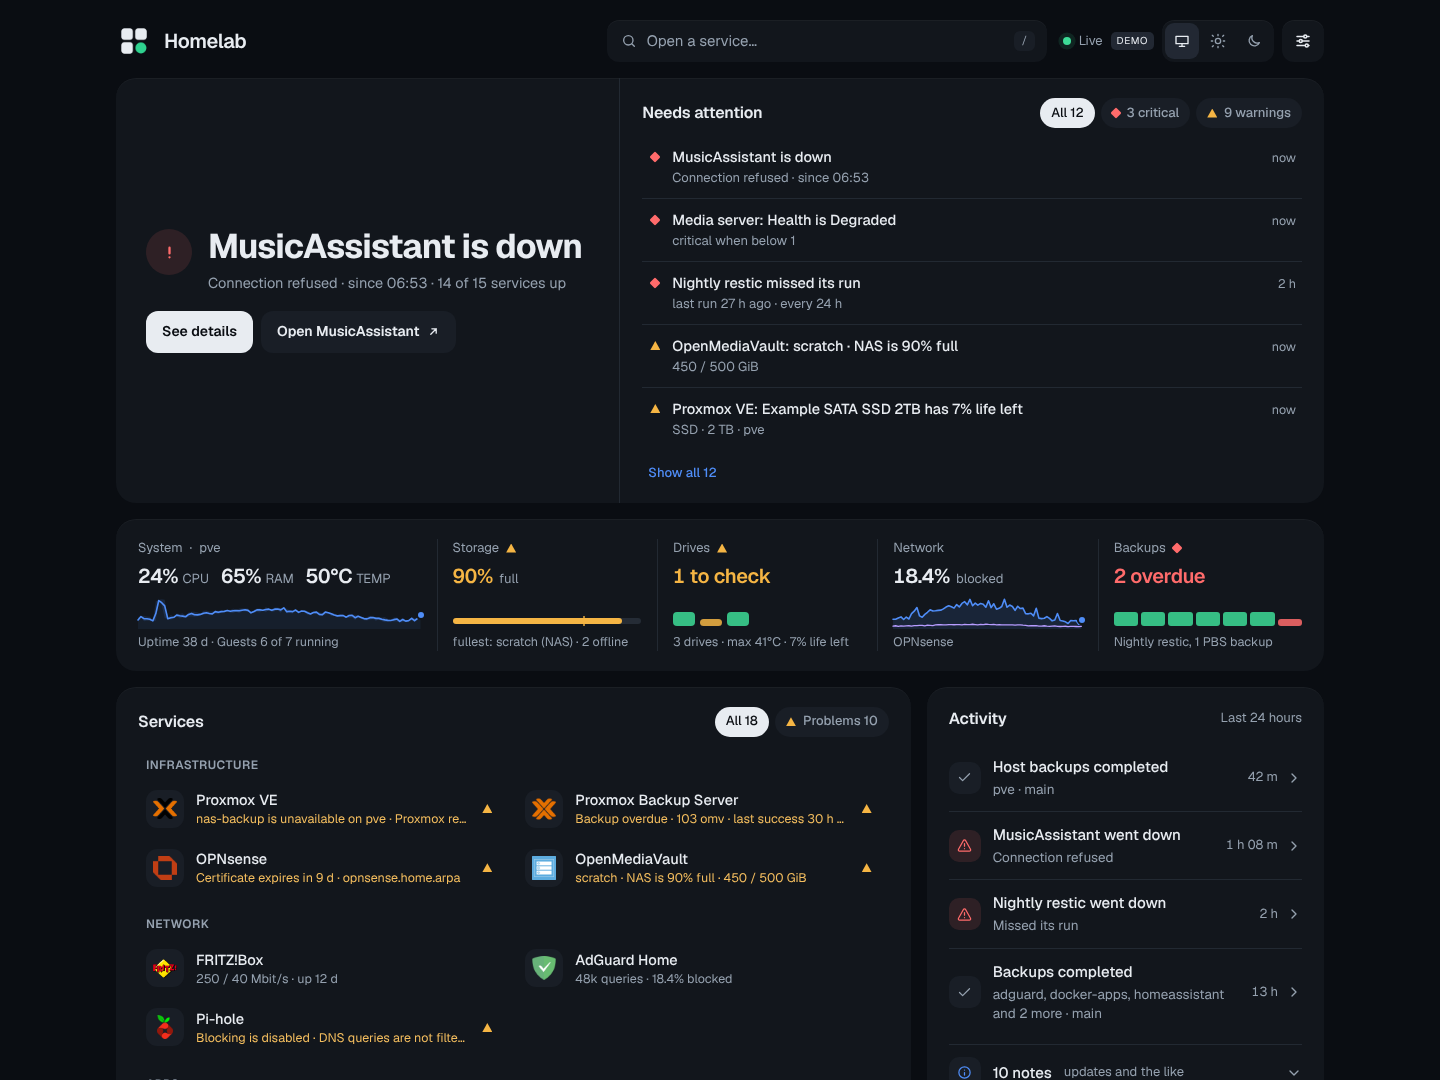
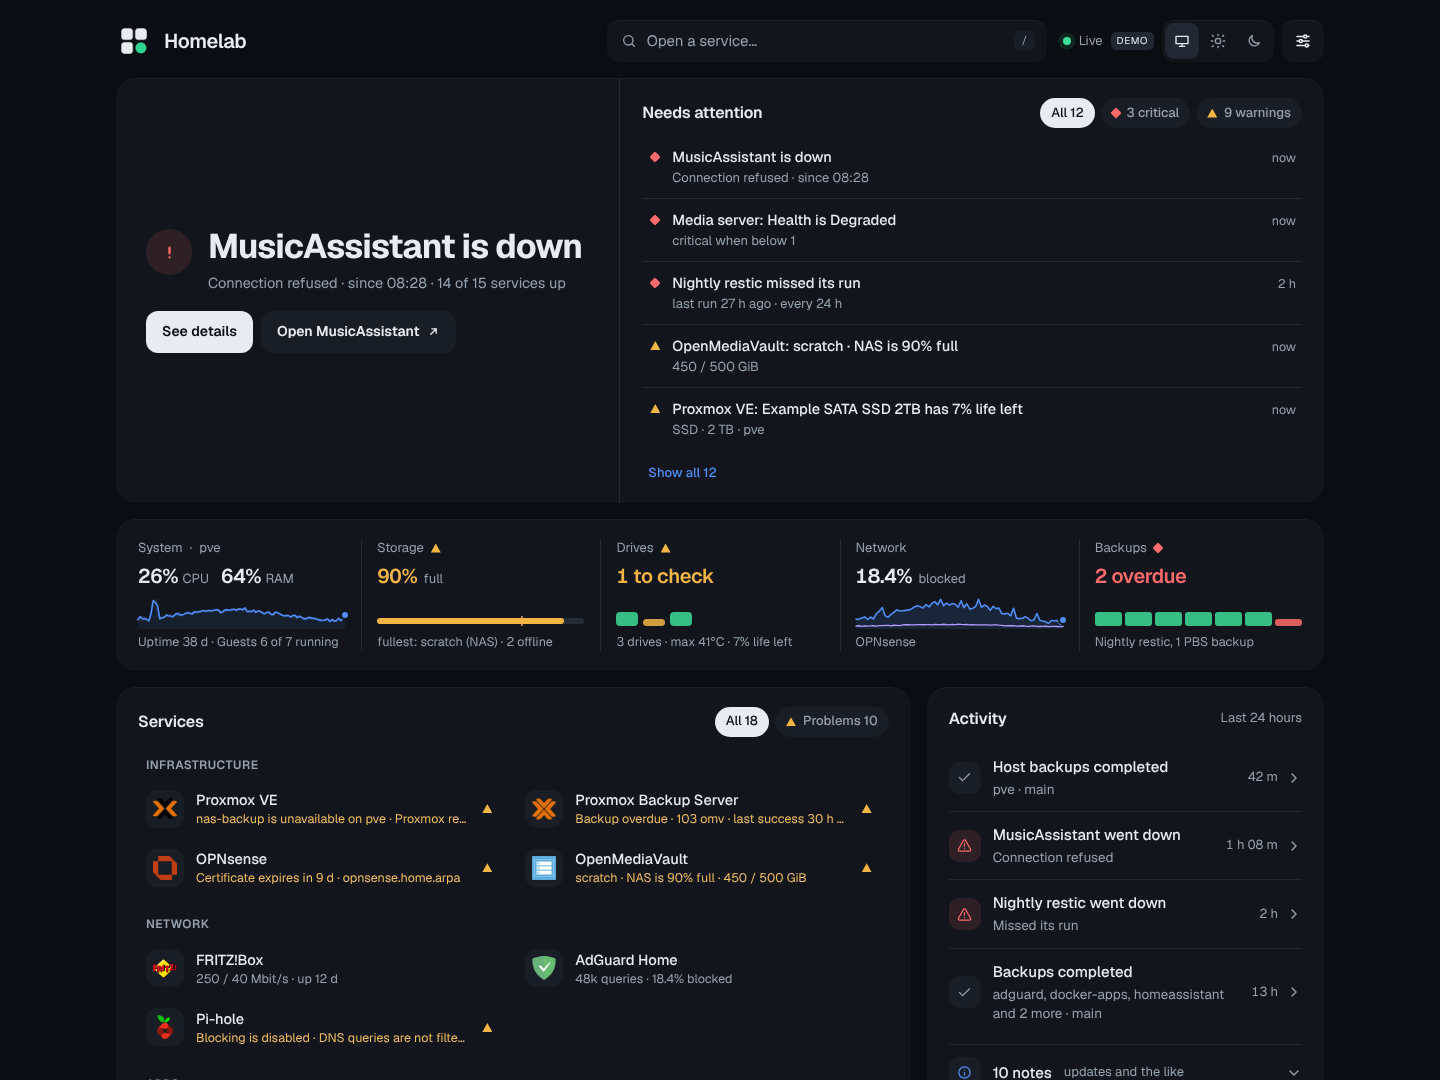
Strip: equal cells, temperature only for a problem, wider phone pictures
- System shows CPU and RAM; its temperature joins them only at warn or crit
  (infrastructure.ts, tested). The sheet's Thermals chart has it always.
- All five cells are equally wide again (no min-content width for System).
- Phones: every row's picture takes 45% of the row (about 145 px).
- A figure's unit keeps 6 px from it without a negative margin, so a wrapped
  unit (Network's Mbit/s) no longer sticks out to the left.
- Screenshots retaken; docs updated.

Claude-Session: https://claude.ai/code/session_01BawsohcbaCwGbQoPVLYXZX

Changed region(s): [[0.0938, 0.4889, 0.875, 0.6111]]

diff --git a/src/routes/+page.svelte b/src/routes/+page.svelte
@@ -743,15 +743,15 @@
   /* a rule between cells, left out next to a hovered one */
   .cell + .cell::before { content: ''; position: absolute; left: 0; top: 14px; bottom: 14px; border-left: 1px solid var(--line); }
   .cell:hover::before, .cell:hover + .cell::before { display: none; }
-  /* a cell of several figures (System: CPU, RAM, temperature) gets half again the room, and never less than its
-     figures on one line: they don't wrap, the other cells give way */
-  .cell:has(.ist + .ist + .ist) { flex-grow: 1.5; min-width: min-content; }
-  .cell:has(.ist + .ist + .ist) .fig { flex-wrap: nowrap; }
+  /* every cell as wide as the others: System shows CPU and RAM, and its temperature only for a problem, when the
+     figures may take a second line */
   .clab { display: flex; align-items: center; gap: 7px; min-width: 0; font-size: 13px; color: var(--muted); }
   .kw::before { content: '·'; margin-right: 7px; }
   .fig { display: flex; flex-wrap: wrap; align-items: baseline; gap: 0 12px; min-width: 0; }
+  /* a figure and its unit sit closer than two figures, without a negative margin that would indent a wrapped unit */
+  .fig:not(:has(.ist)) { column-gap: 6px; }
   .fig .v, .fig .isv { font-size: 20px; font-weight: 600; letter-spacing: -0.015em; white-space: nowrap; font-variant-numeric: tabular-nums; }
-  .fig .u { margin-left: -6px; font-size: 13px; color: var(--muted); white-space: nowrap; }
+  .fig .u { font-size: 13px; color: var(--muted); white-space: nowrap; }
   .ist { display: inline-flex; align-items: baseline; gap: 4px; white-space: nowrap; }
   .isk { font-size: 13px; color: var(--muted); }
   .isv.hl, .cell.alert .fig .v { color: var(--lv); }
@@ -906,8 +906,7 @@
     .most { padding: 0 22px 20px; }
     .lower { grid-template-columns: minmax(0, 1fr); }
     .side { position: static; }
-    /* the strip stays one row: System a little wider, its figures still on one line */
-    .cell:has(.ist + .ist + .ist) { flex-grow: 1.15; }
+    /* the strip stays one row, the cells as wide as each other */
     .cell { padding: 12px 12px; }
     .fig { gap: 0 8px; }
     .fig .v, .fig .isv { font-size: 18px; }
@@ -938,10 +937,10 @@
     .apps { display: grid; grid-template-columns: repeat(4, minmax(0, 1fr)); gap: 6px; }
     .app { width: auto; }
     /* the strip as a compact list: a row per area, its label over its figure, the picture on the right, as wide in every
-       row: 112 px, narrower on small phones (56 px, 40 if it must) so System's figures stay on one line. The line of context shows only for an area with
+       row: 45% of it (about 145 px on a phone). The line of context shows only for an area with
        a problem (the sheet has the rest) */
     .infra { display: flex; flex-direction: column; padding: 4px 6px; border-radius: 22px; }
-    .cell { flex: none; display: grid; grid-template-columns: minmax(min-content, 1fr) minmax(40px, clamp(56px, 100vw - 300px, 112px)); grid-template-areas: 'lab viz' 'fig viz' 's s'; align-items: center; gap: 1px 14px; padding: 10px 10px; }
+    .cell { flex: none; display: grid; grid-template-columns: minmax(0, 1fr) 45%; grid-template-areas: 'lab viz' 'fig viz' 's s'; align-items: center; gap: 1px 14px; padding: 10px 10px; }
     .cell + .cell::before { display: block; left: 10px; right: 10px; top: 0; bottom: auto; border-left: 0; border-top: 1px solid var(--line); }
     .cell:hover::before, .cell:hover + .cell::before { display: block; }
     .cell:active { background: var(--surface-2); }
@@ -949,7 +948,6 @@
     .fig { grid-area: fig; gap: 0 9px; }
     .fig .v, .fig .isv { font-size: 17px; }
     .isk, .fig .u { font-size: 12px; }
-    .fig .u { margin-left: -5px; }
     .viz { grid-area: viz; height: 30px; align-items: center; }
     .viz :global(.spark) { height: 30px !important; }
     .meter { margin: 0; }

diff --git a/src/lib/server/snapshot.test.ts b/src/lib/server/snapshot.test.ts
@@ -338,7 +338,7 @@ test('Activity: outages under minOutageMinutes are left out, and each row says w
   assert.ok(every.some((f) => f.title === 'Blip went down'), '0 shows every outage');
 });
 
-test('System and Network panels: charts with each bucket\'s low and high, slow readings as meters, Disk I/O', () => {
+test('System and Network panels: charts with each bucket\'s low and high, slow readings as meters, Disk I/O; the strip\'s temperature only for a problem', () => {
   const now = day(31);
   // CPU: 10% averages with one 60% spike inside a bucket; LAN: one 300 Mbit/s burst two hours ago
   for (let i = 1; i <= 40; i++) {
@@ -362,6 +362,10 @@ test('System and Network panels: charts with each bucket\'s low and high, slow r
   assert.equal(Math.max(...cpu.series.filter((v) => v != null)), 35, 'the average flattens the spike');
   assert.deepEqual([Math.max(...cpu.hi.filter((v) => v != null)), Math.min(...cpu.lo.filter((v) => v != null))], [60, 10], 'the band keeps it');
   assert.deepEqual([snap.host?.io?.read, snap.host?.io?.write, snap.host?.io?.seriesRead?.some((v) => v === 2)], [2.5, 0.5, true]);
+  // the strip's System cell: CPU and RAM; the temperature only when it needs a look
+  assert.deepEqual(panel(snap, 'system')?.stats?.map((x) => x.k), ['CPU', 'RAM']);
+  const hot = createSnapshot()(snapshotInput({ services: [pve], temps: { cpu: 80, nvme: [], drives: [] } }), now);
+  assert.deepEqual(panel(hot, 'system')?.stats?.map((x) => [x.k, x.v, x.level]), [['CPU', '12%', 'ok'], ['RAM', '50%', 'ok'], ['TEMP', '80°C', 'warn']]);
   // the LAN's burst survives in the band of its download
   assert.equal(Math.max(...(snap.network?.lan?.downHi ?? []).filter((v) => v != null)), 300);
 });

diff --git a/src/lib/server/infrastructure.ts b/src/lib/server/infrastructure.ts
@@ -18,7 +18,8 @@ function system(host: NonNullable<Parts['host']>): InfraPanel {
     stats: [
       cpu && { k: 'CPU', v: `${cpu.val}%`, level: cpu.level },
       mem && { k: 'RAM', v: mem.pct != null ? `${Math.round(mem.pct)}%` : '—', level: mem.level },
-      temp && { k: 'TEMP', v: `${temp.val}°C`, level: temp.level }
+      // the temperature only when it needs a look: the cells stay equal, and the sheet charts it
+      temp && (temp.level === 'warn' || temp.level === 'crit') && { k: 'TEMP', v: `${temp.val}°C`, level: temp.level }
     ].filter((x) => !!x),
     level: worst(host.gauges.map((x) => x.level))
   };

diff --git a/CLAUDE.md b/CLAUDE.md
@@ -27,7 +27,7 @@ One Node process, no worker or external DB. `src/hooks.server.ts` starts a singl
 - **Fixtures** (`demo/<type>.ts`) are `"METHOD /path"` → `({ now, scenario, params, headers, body })` tables served by `fixtureTransport`. Demo mode and the tests use the same transport seam, so integrations run unchanged in both. `demoSources` only fakes what has no integration: probes, certificates, local host, temperatures, 24 h of seeded history.
 - **Checks** (`check.ts`): `record` turns a reading into check state, a history row and events; `status` gives the tile's level, line and alert. `siteMonitor` is probed over HTTP (<500 = up) or, for `tcp://host:port`, by connecting. **Heartbeats** (`heartbeat.ts`, `/api/heartbeat/<id>[/fail]`) are push checks: token compared on SHA-256 digests, 404 for an unknown id or a wrong token, 1 call/s per id; results live in `kv`.
 - **Snapshot** (`snapshot.ts`) holds the status rules: down after 2 failed probes, "slow" when the 1 h p95 exceeds `latencyWarnMs` with ≥10 samples, the certificate and temperature thresholds, the verdict, the fleet strip. `build` runs one function per panel. Those that raise alerts (`configAlerts`, `serviceTiles`, `hostPanel`, `storage.ts`'s alerts, `drivesPanel`) run before `round.close`, the rest (`applyWorst`, `networkPanel`, `fleetStrip`, `verdictOf`, `mostUsedRow`) after. The infrastructure strip's cells and the sheet's tabs come worded and judged from `infrastructure.ts` (`snap.infrastructure`), the Storage cell, the storage rows and the Disk gauge's level from `storage.ts` (one alert per disk, `storage.test.ts`), the Backups cell and the Backups tab (`snap.backups`, with `days`: a level per day of the last week: red where a backup job was found late, green where a job was on time or a backup completed; the services' other events never count) from `backups.ts`, which adds up what `pbs.ts` and `check.ts` judged (tested on its own in `backups.test.ts`); the page only renders them. History queries go through `perMinute` (read once a minute per builder); live state is never cached. Tested through `build` in `snapshot.test.ts`, with inputs from `test-helpers.ts#snapshotInput`.
-- **Main page** (`+page.svelte`): the top card (`verdict`: one sentence with See details and the top item's Open action; beside it every crit/warn item once, as a list with a filter by level; when calm, Most used instead), the infrastructure strip (a cell each for System, Storage, Drives, Network and Backups: figure, a small picture drawn from what the sheet charts, context; a problem colours the figure and adds its shape; on phones a compact list, a row per area with the picture on the right and the context only for a problem; System's figures stay on one line, the other cells and the phone's picture give way) and the services as **tiles**: every service and job with its icon, name and status line. A tap on a tile opens the service; the button at its end or a long press (`longpress` action, touch only) opens its sheet; one without `href` opens its sheet on a tap; a Problems filter narrows the list. Activity lists what happened and folds the info items (notes) into one row; Links sit under it. Details live in sheets (`Sheet.svelte`, a modal `<dialog>`; on phones no X but a handle that closes; one fluid drag: the top edge follows the finger, and on release it carries on with the finger's speed and stays where it lands, closed below a third of its opening height or on a quick flick): a service (with its 7-day events from `/api/events?sid=`), infrastructure (`Infrastructure.svelte`, five tabs; the Backups tab's body is a snippet from the page, since its rows open service sheets: a summary with the week's strip, a line and a cycle bar per backup row, Recent folded. Charts (`Chart.svelte`, and `Bars.svelte` for DNS queries per hour) have a labelled y-axis of three nice ticks (percentages and rates from 0, temperatures fitted with the limit in view), the time every 6 h, a band from each bucket's low to its high (`db.ts#series` returns `lo`/`hi`) and a legend in their card (`Gauge.svelte`, `Reading.svelte`) that follows the scrub; gauges with `view: 'meter'` (memory, disk fill) are `MeterRow.svelte` rows) and activity (`feed`). Each Activity row carries `open`, the sheet it opens (`snapshot.ts#feedTarget`). Both pages share `AppHeader.svelte` (brand, search, live state, theme, Setup) and, on phones, `TabBar.svelte`. Below 760 px the dashboard shows one view at a time (Home, Services, Alerts): each section names its views in `data-v` and CSS hides the rest, so the markup stays one. The view is history state (`page.state.view`): leaving Home pushes an entry, switching between the others replaces it, sheets push on top. Search opens the palette, full screen on phones; Setup's tab bar leads here by hash (`/#search`, `/#view-services`, `/#view-alerts`). The theme button sits next to Setup in the header (`ThemeToggle.svelte`: system, light and dark side by side on desktop; on phones one button stepping through them).
+- **Main page** (`+page.svelte`): the top card (`verdict`: one sentence with See details and the top item's Open action; beside it every crit/warn item once, as a list with a filter by level; when calm, Most used instead), the infrastructure strip (a cell each for System, Storage, Drives, Network and Backups: figure, a small picture drawn from what the sheet charts, context; a problem colours the figure and adds its shape; on phones a compact list, a row per area with the picture on the right and the context only for a problem; the cells are equal; System shows CPU and RAM, and its temperature only at warn or crit) and the services as **tiles**: every service and job with its icon, name and status line. A tap on a tile opens the service; the button at its end or a long press (`longpress` action, touch only) opens its sheet; one without `href` opens its sheet on a tap; a Problems filter narrows the list. Activity lists what happened and folds the info items (notes) into one row; Links sit under it. Details live in sheets (`Sheet.svelte`, a modal `<dialog>`; on phones no X but a handle that closes; one fluid drag: the top edge follows the finger, and on release it carries on with the finger's speed and stays where it lands, closed below a third of its opening height or on a quick flick): a service (with its 7-day events from `/api/events?sid=`), infrastructure (`Infrastructure.svelte`, five tabs; the Backups tab's body is a snippet from the page, since its rows open service sheets: a summary with the week's strip, a line and a cycle bar per backup row, Recent folded. Charts (`Chart.svelte`, and `Bars.svelte` for DNS queries per hour) have a labelled y-axis of three nice ticks (percentages and rates from 0, temperatures fitted with the limit in view), the time every 6 h, a band from each bucket's low to its high (`db.ts#series` returns `lo`/`hi`) and a legend in their card (`Gauge.svelte`, `Reading.svelte`) that follows the scrub; gauges with `view: 'meter'` (memory, disk fill) are `MeterRow.svelte` rows) and activity (`feed`). Each Activity row carries `open`, the sheet it opens (`snapshot.ts#feedTarget`). Both pages share `AppHeader.svelte` (brand, search, live state, theme, Setup) and, on phones, `TabBar.svelte`. Below 760 px the dashboard shows one view at a time (Home, Services, Alerts): each section names its views in `data-v` and CSS hides the rest, so the markup stays one. The view is history state (`page.state.view`): leaving Home pushes an entry, switching between the others replaces it, sheets push on top. Search opens the palette, full screen on phones; Setup's tab bar leads here by hash (`/#search`, `/#view-services`, `/#view-alerts`). The theme button sits next to Setup in the header (`ThemeToggle.svelte`: system, light and dark side by side on desktop; on phones one button stepping through them).
 - **Attention** (`attention.ts`): `begin(now)` → `raise({ sev, key, title, service | source })` → `close(events)`; raising after close throws. It names, ages (by key, never by title) and orders alerts, and gives the headline, the feed, `needCount` and `worst(sid)`. `Alert.key` is required and unique per widget result (`integrations.test.ts` checks it).
 - **Config** (`config.ts`): `loadConfig()` deep-merges `settings.yaml` over `DEFAULT_SETTINGS`; intervals below their minimum become problems. `${NAME}` and `{{HOMEPAGE_VAR_NAME}}` resolve from the env, then `NAME_FILE`, then `/run/secrets/<name lowercase>`. A broken file keeps its last version and is recorded as a problem. Missing secrets are recorded by name (not in demo mode).
 - **Config view** (`/config`, `config-view.ts`) is read-only and **allowlist only**: type, URL origin, per-type `SAFE_OPTIONS`, status. `config-view.test.ts` fails if any configured secret reaches the page data. The page (titled Setup) checks the configuration, not service health: it joins `widgets`, `checks` and `icons` onto `services` (one row per service) and shows settings that differ from the default first. A row opens the service's setup details in a sheet (`page.state.setup`); the page data also carries `shell` (logo, alert count) for the shared header and tab bar.

diff --git a/README.md b/README.md
@@ -11,7 +11,7 @@ It is made for your **LAN or VPN** (WireGuard, Tailscale, …): it has no login 
 ![Dashboard in dark mode with problems: the top problem with its buttons, beside it everything that needs attention, the infrastructure strip with a small chart per area, a tile per service with its status line, and recent activity](docs/screenshots/desktop-dark.png)
 
 - **One glance.** One sentence gives the state ("All 15 services up · 3 jobs on schedule", or the most important problem with buttons to see its details and open that service). Beside it, everything else that needs attention is listed once, most severe first, with how long each has been raised and a filter by level. When all is well, the page is short and quiet.
-- **Infrastructure at a glance, details on demand.** One strip with a cell per area, each with its figure and a small picture of it: **System** (CPU, memory, temperature of the Proxmox node or the machine the dashboard runs on, with the CPU's last 24 hours), **Storage** (the fullest), **Drives** (SMART health, one mark per drive), **Network** (traffic, DNS block rate) and **Backups** (PBS and backup jobs, the last seven days). Each one opens its tab of a sheet with the full detail: 24-hour charts with a labelled scale that you can scrub through (CPU, disk I/O, temperature, with the range of readings around each line; memory and disk fill as bars with their 24 h change), every storage with its fill, grouped by the host or NAS it belongs to, every drive with SMART health, WAN and LAN traffic charts, DNS queries per hour with the blocked share, and every backup with a bar for how far through its schedule it is.
+- **Infrastructure at a glance, details on demand.** One strip with a cell per area, each with its figure and a small picture of it: **System** (CPU and memory of the Proxmox node or the machine the dashboard runs on, the temperature when it runs hot, and the CPU's last 24 hours), **Storage** (the fullest), **Drives** (SMART health, one mark per drive), **Network** (traffic, DNS block rate) and **Backups** (PBS and backup jobs, the last seven days). Each one opens its tab of a sheet with the full detail: 24-hour charts with a labelled scale that you can scrub through (CPU, disk I/O, temperature, with the range of readings around each line; memory and disk fill as bars with their 24 h change), every storage with its fill, grouped by the host or NAS it belongs to, every drive with SMART health, WAN and LAN traffic charts, DNS queries per hour with the blocked share, and every backup with a bar for how far through its schedule it is.
 - **Launcher and status in one.** The services you open most, picked automatically, then a tile for every service and job, grouped as in `services.yaml`: a tap opens the service, and the line under its name says how it is. The button at the tile's end (or a long press) opens its details, and a filter shows only the ones with a problem. Press `/` or `⌘K` / `Ctrl+K` for the command palette.
 - **Checks.** Services are checked every 30 s over HTTP or `tcp://`, which gives uptime (24 h and 7 d), p95 latency and a 24-hour health strip; each service's sheet shows them and lists the service's events of the last 7 days. The dashboard also tracks certificate expiry, backup age per guest, failed or unhealthy containers, SMART status and firewall gateways. Pending updates (Proxmox, OpenMediaVault, OPNsense, Home Assistant, and container images through What's Up Docker) and low batteries in Home Assistant are notes, folded into one row of Activity. Tapping a row in Activity opens its service's sheet, or the Backups tab for backups; outages shorter than 5 minutes stay out of Activity.
 - **Live and installable.** Updates are pushed to the browser as they happen, and a service whose status changes is briefly highlighted. If updates stop, the page says so and greys out instead of showing old data as current. It installs as an app (PWA) on phones and desktops, with the number of open problems on its icon, in light and dark themes. On a phone a bar at the bottom switches between Home, Services, Search and Alerts, and details open in a sheet you drag up or swipe away.

diff --git a/CONTEXT.md b/CONTEXT.md
@@ -28,7 +28,7 @@ Terms used in the code and in design discussions.
 
 **Verdict** — the hero's sentence: "All 15 services up" (with jobs, backups and expiring certificates as context), or the top attention item with an Open action for its service.
 
-**Infrastructure** — the strip under the top card: a cell each for System, Storage, Drives, Network and Backups, with one figure, a small picture of it (the CPU's last 24 h with the range of its readings, the traffic's, and the fullest storage in the accent colour; a mark per drive and the last seven days of backups in status colours: green when fine, a short bar in amber or red for a problem) and a line of context (side by side when the page is wide; on phones a compact list, a row per area with the picture on the right and the line of context only where something needs attention). A cell opens the Infrastructure sheet at its tab: System (memory and disk fill as meter rows, CPU, disk I/O and temperature as 24 h charts), Storage and Drives (grouped by the host or service that reports them), Network and Backups. A cell and its tab say the same (`snap.infrastructure`, built by `infrastructure.ts`): the figure, the context and a level that is as bad as what is raised for the area, so a marker always has an alert behind it (a storage bar's amber stays in the sheet; overdue PBS backups alone warn, a late job is critical). A problem colours the figure and adds its shape; the cell is not tinted. Only panels with data get a tab.
+**Infrastructure** — the strip under the top card: a cell each for System, Storage, Drives, Network and Backups, with one figure (System: CPU and RAM, and the temperature only when it needs a look), a small picture of it (the CPU's last 24 h with the range of its readings, the traffic's, and the fullest storage in the accent colour; a mark per drive and the last seven days of backups in status colours: green when fine, a short bar in amber or red for a problem) and a line of context (side by side when the page is wide; on phones a compact list, a row per area with the picture on the right and the line of context only where something needs attention). A cell opens the Infrastructure sheet at its tab: System (memory and disk fill as meter rows, CPU, disk I/O and temperature as 24 h charts), Storage and Drives (grouped by the host or service that reports them), Network and Backups. A cell and its tab say the same (`snap.infrastructure`, built by `infrastructure.ts`): the figure, the context and a level that is as bad as what is raised for the area, so a marker always has an alert behind it (a storage bar's amber stays in the sheet; overdue PBS backups alone warn, a late job is critical). A problem colours the figure and adds its shape; the cell is not tinted. Only panels with data get a tab.
 
 **Sheet** — a panel over the page with the details of one thing (a service with its own activity, infrastructure with backups, activity; on Setup, how a service is set up): a side panel on desktop with a close button, a bottom sheet on phones that opens part of the way up and follows the finger in one fluid drag (up to the full height, down to any height or closed, a quick flick closes), and has a handle that closes it on a tap instead of a close button. Sheets stack: one opened from inside another (Backups → a job) is a level deeper, with a round back button beside its title (no text: where it leads is its label and tooltip); each level is a history entry, so back (browser, Android, Esc) goes up one level, and closing closes all. The page itself stays short.
 
